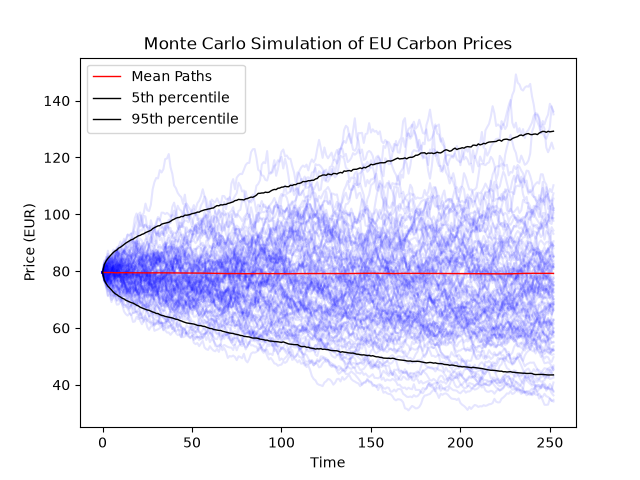
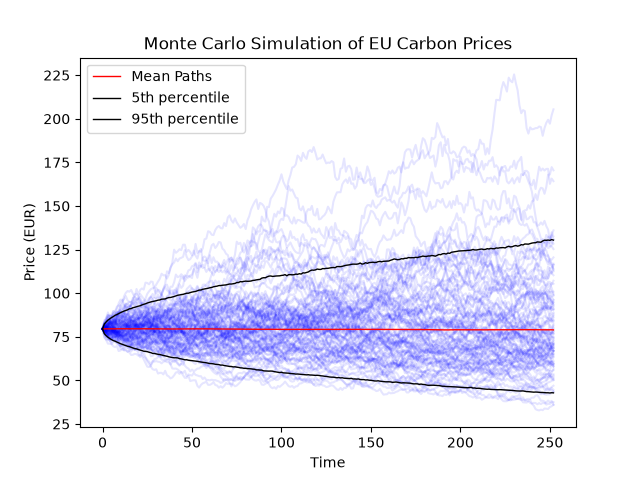
made mean reverting model using Ornstein-Uhlenbeck process

diff --git a/notebooks/05_mean_rev.py b/notebooks/05_mean_rev.py
@@ -1,0 +1,166 @@
+import pandas as pd
+import numpy as np
+import matplotlib.pyplot as plt
+
+df = pd.read_csv("data/carbon_prices.csv")
+df["Date"] = pd.to_datetime(df["Date"])     # Convert 'Date' column to datetime
+df = df.sort_values(by="Date", ascending = True)    # Sort by date in ascending order
+
+df["Log_Returns"] = np.log(df["Price"] / df["Price"].shift(1))  # Calculate log returns. log return = log(price_t/price_t-1)
+df = df.dropna()  # Remove rows with NaN values (first row will have NaN log return since there is no previous price to compare it to)
+
+# Random walk simulation. Given today's price, what are the possible prices in 1 year (252 trading days)?
+
+rng = np.random.default_rng(50) # gives same random numbers each run so figures and numbers don't change
+
+n_days = 252  # Number of trading days in a year
+dt = 1/n_days  # Time increment 
+n_paths = 10000 
+
+mu = np.mean(df["Log_Returns"]) * n_days  # Annualized mean of log returns
+sigma = np.std(df["Log_Returns"]) * np.sqrt(n_days) # Annualized standard deviation of log returns
+
+Z = rng.normal(0,1, size = (n_days, n_paths))  # Generate 2D array of random numbers from normal dist. T be used to generate random paths
+
+# Geometric Brownian Motion formula: S(t) = S(0) * exp((mu - 0.5 * sigma^2) * dt + sigma * sqrt(dt) * Z)
+# log returns: ln(S(t)/S(0)) = (mu - 0.5 * sigma^2) * dt + sigma * sqrt(dt) * Z
+# Log returns are additive so to get the price at day T, we can take the cumulative sum of T log returns
+# and exponenitate
+#               S(T) = S(0) * exp(cumulative_log_returns)
+
+S_0 = df["Price"].iloc[-1]    # Last observed price. ie. Price on 01/07/2026
+daily_log_returns = (mu - 0.5 * sigma**2) * dt + (sigma * np.sqrt(dt) * Z)    # 2D array of daily log returns for each path (252, 10000)
+cumulative_log_returns = np.cumsum(daily_log_returns, axis=0) 
+gbm_paths = S_0 * np.exp(cumulative_log_returns) # Note: changed price_paths --> gbm_paths to avoid confusion between GBM and OU
+
+# At this point, we have a 2D array (252,10000), but each first day is different, so we should add the same starting price to each path
+
+gbm_paths = np.vstack([np.full(n_paths, S_0), gbm_paths]) # Add the starting price S_0 to the first row (vstack adds row to the top of gbm_paths)
+
+# =======================================================================================================================
+# We want a model that pulls prices back to a mean when they get too high or low, as this will reflect real-life better
+# This mimics how a spring in harmonic motion would act
+#       --> the spring's motion will always converge back to its equilibrium position
+#       --> the further the extension of the spring, the greater the force that pulls it back ==> the further the price moves from the mean,
+#                                                                                                  the faster it will be pulled back
+# BUT we also must account for 'noise', which is random
+#
+# The Ornstein-Uhlenbeck (OU) process:
+#
+#     dS = theta * (mu - S) * dt  +  sigma * dW
+#          \____________________/    \________/
+#            restoring force          noise
+#               /DRIFT                /SHOCK
+# 
+# S = stock price at time t, theta = rate of mean reversion, mu = mean value, sigma = volatility, dW = Brownian motion/ Wiener Process/ noise
+#
+# We need to estimate these parameters:
+#
+# S(t+1) - S(t) = theta*mu*dt   -   theta*dt*S(t)   +   sigma*sqrt(dt)*Z 
+#
+# This looks just like a simple linear regression y = a + b*x + error, where y = daily price change and x = yesterday's price
+#
+# S(t+1) - S(t) = theta*mu*dt   -   theta*dt*S(t)   +   sigma*sqrt(dt)*Z 
+# \___________/   \_________/       \_________/         \_____________/
+#       |              |                 |                   |
+#       y          a(intercept)    b(gradient) * S(t)      error term (ε)
+#
+#       Therefore:       theta = - b / dt
+#                        mu = a / (theta * dt) = - a / b
+#                        sigma = std(residual) / sqrt(dt)      <-- we say residual rather than error (ε) because it is an estimate of error
+# 
+# Note: a NEGATIVE b ==> mean reversion ==> OU model is appropratie
+#               --> this is because theta = - b / dt. dt>0 so if b<0 then theta > 0 which means thata negative change is expected tomorrow.
+#               --> is b > 0, this predicts momentum in prices, not mean reversion. So the OU model would not be appropriate
+
+ 
+
+import scipy
+
+dS = np.diff(df["Price"])  # y: daily price change
+S_lag = df["Price"][:-1] # x: the price the day before the price change. Doesn't include last entry since there is no dS for that.
+
+from scipy.stats import linregress
+fit = linregress(S_lag,dS)
+b = fit.slope
+a = fit.intercept
+theta = - b / dt
+mu_ou = - a / b
+residuals = dS - (a + (b * S_lag))
+sigma_ou = residuals.std(ddof = 2) / np.sqrt(dt) # degrees of freedom = 2 since we estimated 2 parameters, a and b
+half_life = np.log(2) / theta
+
+print("\nOU parameters estimated from data:")
+print(f"  regression slope b = {b:.6f}   (must be negative for mean reversion)")
+print(f"  theta (reversion speed) = {theta:.4f} /yr")
+print(f"  mu    (long-run mean)   = {mu_ou:.2f} EUR")
+print(f"  sigma (volatility)      = {sigma_ou:.4f} EUR/sqrt(yr)")
+print(f"  half-life               = {half_life:.2f} yr "
+      f"({half_life * 252:.0f} trading days)")
+ 
+if b >= 0:
+    print("  WARNING: positive slope ==> the data does not mean-revert. "
+          "Interpret the OU results tentatively - this does not seem to be the correct model.")
+ 
+
+
+#--------------------SIMULATING OU PATHS--------------------
+
+Z_ou = rng.normal(0,1, (n_days, n_paths))
+ou_paths = np.zeros((n_days + 1, n_paths))
+ou_paths[0,:] = S_0
+
+for t in range(n_days):
+    drift = theta * (mu_ou - ou_paths[t,:]) * dt
+    shock = sigma_ou * np.sqrt(dt) * Z_ou[t,:]
+    ou_paths[t+1,:] = ou_paths[t,:] + drift + shock
+
+# The OU process is additive so it can go negative, but carbon allowances can, of course, not be negative
+frac_negative_ou = np.mean(ou_paths.min(axis=0)< 0)
+print(f"\nFraction of OU paths that go negative at some point: {frac_negative_ou:.2%}")
+
+#-------------------------CHECKING SIMULATION AGAINST ANALYTIC SOLUTION-----------------------------------------
+# Expected value over time: E[S_t]   = mu + (S0 - mu) * exp(-theta*t)
+#           --> As t --> ∞ the exponential term tends to zero so the price is pulled back to the long-term mean, mu
+#
+# Variance over time: Var[S_t] = ( sigma^2 / (2*theta) ) * (1 - exp(-2*theta*t))
+#           --> As t --> ∞ Var[S_t] = sigma^2 / (2*theta) ==> the variance becomes stationary (there is no time dependency)
+#           --> CONTRAST TO GBM in which variance grows limitlessly 
+
+time_years = n_days * dt
+analytic_mean = mu_ou + (S_0 - mu_ou)*np.exp(-theta * time_years)
+analytic_std = np.sqrt((sigma_ou**2 / (2 * theta) )* (1 - np.exp(-2 * theta * time_years)))
+
+print("\nChecking simulation vs analytic Ornstein-Uhlenbeck processes:")
+print(f"          mean      : {ou_paths[-1,:].mean():10.2f} vs {analytic_mean:10.2f}")
+print(f"  standard deviation:   {ou_paths[-1].std():8.2f}  vs  {analytic_std:8.2f}")
+print(f"  long-run (t -> ∞) standard deviation is {sigma_ou / np.sqrt(2 * theta):.2f}")
+
+# Fan charts of GBM (made previously in notebooks/03_monte_carlo.py and dispayed in figures/03_monte_calo_fan.png) vs OU
+
+fig, axes = plt.subplots(1, 2, figsize=(16, 6), sharey=True)
+ 
+for ax, paths, name, colour in [
+    (axes[0], gbm_paths, 'Geometric Brownian Motion', 'blue'),
+    (axes[1], ou_paths, 'Mean-Reverting (Ornstein-Uhlenbeck)', 'orange'),
+]:
+    ax.plot(paths[:, :100], color=colour, alpha=0.1, linewidth=0.8)
+    ax.plot(paths.mean(axis=1), color='crimson', linewidth=1.5, label='Mean path')
+    ax.plot(np.percentile(paths, 5, axis=1), 'black', linewidth=1, label='5th / 95th percentile')
+    ax.plot(np.percentile(paths, 95, axis=1), 'black', linewidth=1)
+    ax.set_title(name)
+    ax.set_xlabel('Trading day')
+    ax.grid(True, alpha=0.3)
+ 
+axes[0].set_ylabel('Price (EUR)')
+axes[1].axhline(mu_ou, color='green', linestyle=':', linewidth=2,
+                label=f'Long-run mean = {mu_ou:.1f}')
+axes[0].legend(loc='upper left')
+axes[1].legend(loc='upper left')
+ 
+fig.suptitle(f'{n_paths:,} simulated one-year carbon price paths', fontsize=13)
+plt.tight_layout()
+plt.savefig('figures/05_gbm_vs_meanreverting.png', dpi=150)
+plt.show()
+ 
+ 

diff --git a/notebooks/03_monte_carlo.py b/notebooks/03_monte_carlo.py
@@ -11,7 +11,7 @@ df = df.dropna()  # Remove rows with NaN values (first row will have NaN log ret
 
 # Random walk simulation. Given today's price, what are the possible prices in 1 year (252 trading days)?
 
-rng = np.random.default_rng(42) # gives same random numbers each run so figures and numbers don't change
+rng = np.random.default_rng(50) # gives same random numbers each run so figures and numbers don't change
 
 n_days = 252  # Number of trading days in a year
 dt = 1/n_days  # Time increment 
